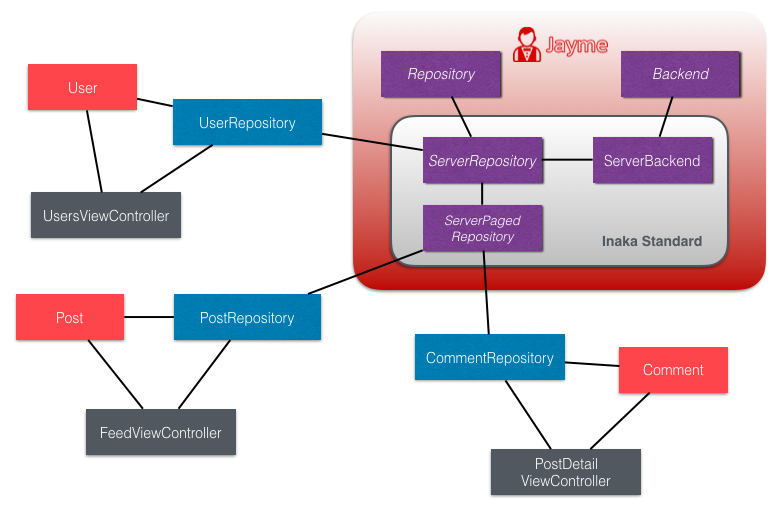
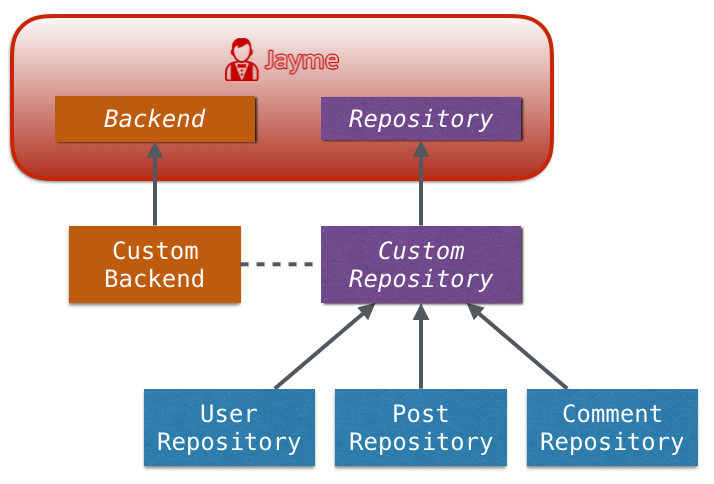
[Issue #40] Updated README.

diff --git a/README.md b/README.md
@@ -52,8 +52,6 @@ It provides a neat API for dealing with REST communication, leaving your `ViewCo
 
 Jayme leverages the **Repository Pattern** as its main cornerstone. Its foundation provides 2 protocols to conform to: `Repository` and `Backend`, from which you will base your entities business logic.
 
-![Jayme's Architecture Extended](https://raw.githubusercontent.com/inaka/Jayme/master/Assets/architecture-diagram-2.png)
-
 ###Entities
 
 There's no concrete definition of any Entity in Jayme. You define them. The only restriction is that any EntityType you create should conform to these three protocols:
@@ -80,11 +78,22 @@ There are some scenarios where you might want to handle local identifiers vs. se
 
 
 
-### The Inaka Standard
+### Jayme Defaults
 
-Jayme comes with a default standard implementation, which is based on the conventions that we normally follow at [Inaka](http://inaka.net/). It involves the `NSURLSessionBackend` class, and the `CRUDRepository` and `PagedRepository` protocols.
+Jayme comes with a default standard core, which is based on the conventions that we normally follow at [Inaka](http://inaka.net/).
 
-You can either leverage these defaults or implement your own repositories and backends by conforming directly to the base `Repository` and `Backend` protocols provided by Jayme's foundation, skipping any of the aforementioned classes.
+This core involves the 3 following items:
+
+- `NSURLSessionBackend` class.
+  -  A backend that connects to a server using `NSURLSession` mechanisms.
+- `CRUDRepository` protocol.
+  - A repository protocol that provides elemental CRUD functionality.
+- `PagedRepository` protocol.
+  - A repository protocol that provides read functionality with pagination.
+
+You can either leverage these elements (as shown in the first diagram) or implement your own repositories and backends by conforming directly to the base `Repository` and `Backend` protocols provided by Jayme's foundation, skipping any of these, as shown below:
+
+![Jayme's Customization](https://raw.githubusercontent.com/inaka/Jayme/master/Assets/architecture-diagram-2.png)
 
 These default interfaces are briefly described below:
 
@@ -109,19 +118,17 @@ These default interfaces are briefly described below:
   - `update(entity)` for updating an existing Entity with its new values.
   - `delete(entity)` for deleting an existing Entity from the Repository.
 
+![CRUDRepository Diagram](https://raw.githubusercontent.com/inaka/Jayme/master/Assets/crud-repository-diagram.png)
+
+- Any repository conforming to `CRUDRepository` will get these default CRUD operations for free. Besides, it can add his own custom functions based on business rules, as shown in this example:
+
+![PostRepository Diagram](https://raw.githubusercontent.com/inaka/Jayme/master/Assets/post-repository-diagram.png)
+
 #### *PagedRepository*
 
-- This protocol provides convenient functionality for reading entities in a paginated manner. Any of your Repositories can conform to it and get this function by free:
+- This protocol provides convenient functionality for reading entities in a paginated manner. Any of your repositories can conform to it and get this function for free:
   - `findByPage(pageNumber)` for fetching a fixed amount of Entities from the Repository, corresponding to a certain page number. The amount of Entities fetched per page is configured in your concrete repository by providing a `pageSize` property. Besides the array containing entities, you get a `PageInfo` related object as well in return.
-- The followed pagination conventions have been based on [these standards](https://github.com/davidcelis/api-pagination).
-
-### Your Own Standard
-
-You can create your own repositories and backends without going through Inaka standards, and still preserving Jayme's core architecture.
-
-See how your own repositories and backends can be plugged in directly to the base `Repository` and `Backend` protocols.
-
-![Jayme's Architecture Customization](https://raw.githubusercontent.com/inaka/Jayme/master/Assets/architecture-diagram-3.png)
+- The followed pagination conventions have been based on [Grape standards](https://github.com/davidcelis/api-pagination).
 
 
 
@@ -292,11 +299,11 @@ class PostRepository: CRUDRepository {
     let name = "posts"
     
     func findPostsHavingAuthorID(authorID: String) -> Future<[Post], JaymeError> {
-        // Server-side documentation states that Posts by AuthorID are found in the "/posts/:authorID" path
-        let path = self.name + "/" + authorID
+        // Considering that server-side documentation states that Posts by AuthorID are found in the "/posts/:authorID" path
+        let path = "\(self.name)/\(authorID)"
         return self.backend.futureForPath(path, method: .GET, parameters: nil)
-            .andThen { self.parseDataAsArray($0.0) }
-            .andThen { self.parseEntitiesFromArray($0) }
+            .andThen { DataParser().dictionariesFromData($0.0) }
+            .andThen { EntityParser().entitiesFromDictionaries($0) }
     }
     
 }
@@ -338,7 +345,7 @@ We are sure you will have to develop more complex scenarios and have bigger chal
 
 
 
-## Sample Project
+## Example Project
 
 If you still have some hesitations about the usage of this library, there is an `Example` folder inside the repo containing a basic implementation of some repositories integrated with view controllers.
 
@@ -358,9 +365,7 @@ Once you have the server running, all you need to do is run Jayme.
 - Jayme is available via [cocoapods](http://cocoapods.org/).
   - To install it, add this line to your `Podfile`:
     - `pod 'Jayme'`
-
-
-- Remember to add an `import Jayme` statement in any source file of your project that needs to make use of the library.
+    - Remember to add an `import Jayme` statement in any source file of your project that needs to make use of the library.
 
 
 
